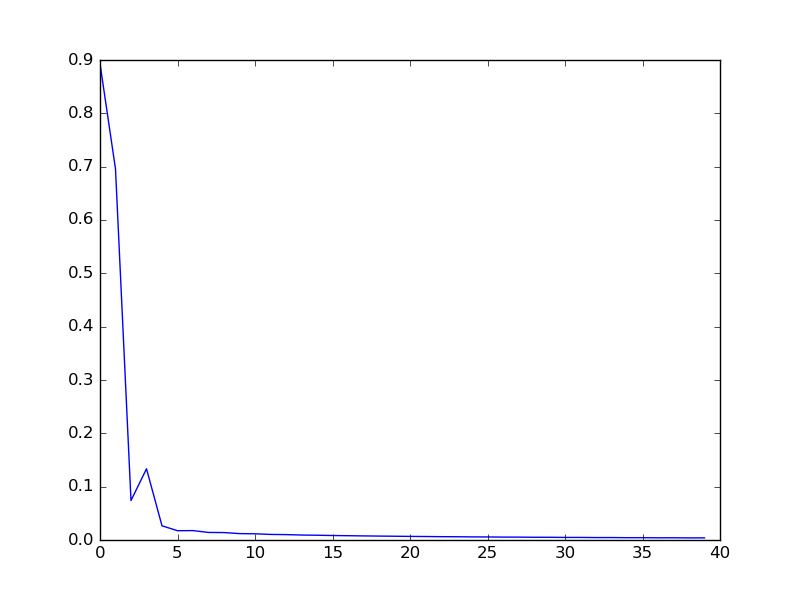
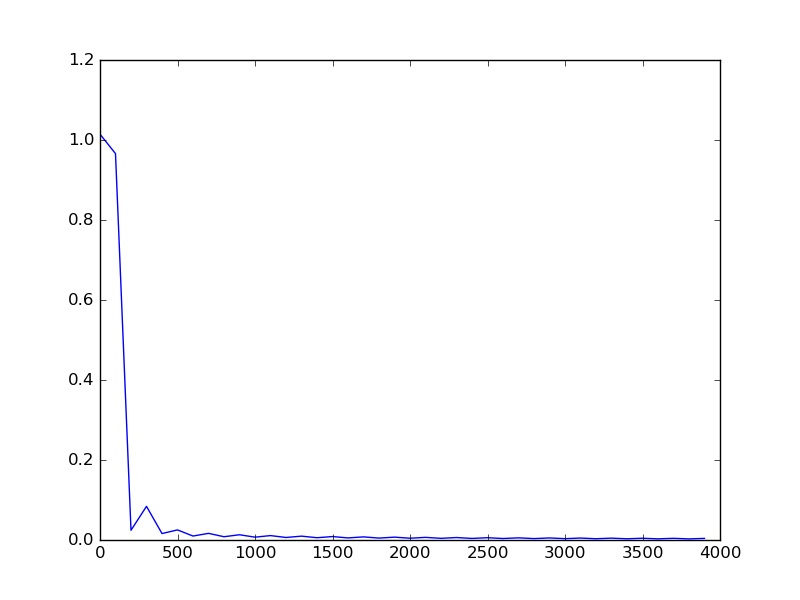
changes

diff --git a/DeepLearning/plot.py b/DeepLearning/plot.py
@@ -1,14 +1,14 @@
-# import matplotlib.pyplot as plt
-# import numpy
-#
-# cost=[1.0144926, 0.96602422, 0.024328001, 0.084135853, 0.016160158, 0.025197307, 0.009908339, 0.01657806, 0.0081786923, 0.013121139, 0.0070881136, 0.011028621, 0.0063030426, 0.0096297041, 0.0056963619, 0.0085926503, 0.005211385, 0.0077778683, 0.0048120469, 0.0071275895, 0.0044746906, 0.006589605, 0.004183189, 0.006135819, 0.0039332267, 0.0057431147, 0.0037121987, 0.0054046381, 0.0035161029, 0.0051041786, 0.0033395544, 0.0048419037, 0.0031820005, 0.0046072733, 0.0030369759, 0.0043934993, 0.0029067376, 0.0042033275, 0.0027854857, 0.0040287729]
-#
-#
-#
-# x = range(0,len(cost),1)
-#
-# plt.plot(x,cost)
-# plt.show()
+import matplotlib.pyplot as plt
+import numpy
+
+cost=[1.0144926, 0.96602422, 0.024328001, 0.084135853, 0.016160158, 0.025197307, 0.009908339, 0.01657806, 0.0081786923, 0.013121139, 0.0070881136, 0.011028621, 0.0063030426, 0.0096297041, 0.0056963619, 0.0085926503, 0.005211385, 0.0077778683, 0.0048120469, 0.0071275895, 0.0044746906, 0.006589605, 0.004183189, 0.006135819, 0.0039332267, 0.0057431147, 0.0037121987, 0.0054046381, 0.0035161029, 0.0051041786, 0.0033395544, 0.0048419037, 0.0031820005, 0.0046072733, 0.0030369759, 0.0043934993, 0.0029067376, 0.0042033275, 0.0027854857, 0.0040287729]
+
+
+
+x = range(0,100*len(cost),100)
+
+plt.plot(x,cost)
+plt.show()
 
 
 # pred=[ 0,0,1,1,0,0,1,0,0,1,0,0,0,0,0,1,0,0,
@@ -95,29 +95,29 @@ actual =[0 ,1 ,1 ,1 ,0 ,1 ,1 ,0 ,1 ,1 ,0 ,1 ,1 ,1 ,0 ,0 ,0 ,1 ,0 ,0 ,0 ,0 ,1 ,1,
 # predicted [1 0 0 1 1 0 0 0 0 0 1 0 0 1 1 0 1 0 1 0 1 1 0 0 0]
 # actual [0 1 0 0 1 1 0 0 1 0 0 0 0 1 1 0 1 0 0 0 0 0 0 0 0]
 
-ind = {"0":"NORMAL","1":"NODULE"}
-import numpy as np
-from math import ceil
-import matplotlib.pyplot as plt
-# plt.style.use('ggplot')
-
-# fig = plt.figure()
-PLOT_ROW_SIZE=3
-PLOT_COLUMNS_SIZE=5
-for i in range(1,16):
-
-    im = plt.imread("final_test_images_calc_nodule_only/"+str(i)+".png")
-
-    plt.subplot(PLOT_ROW_SIZE,PLOT_COLUMNS_SIZE,i)
-    plt.xticks([])
-    plt.yticks([])
-    plt.xlabel("NORMAL : "+str(round(pred_perc[i][0],3))+"| NODULE : "+str(round(pred_perc[i][1],3))+"\n TRUE : "+ ind[str(actual[i])], fontsize=12)
-    plt.imshow(im)
-
-
-
-
-# plt.tick_params(axis='both', which='both', bottom='off', top='off', labelbottom='off', right='off', left='off', labelleft='off')
-# ax.set_xticklabels([])
-# fig.subplots_adjust(bottom=0.08,left = 0.05,right=0.97,top=0.93,wspace = 0.5,hspace = 0.5)
-plt.show()
+# ind = {"0":"NORMAL","1":"NODULE"}
+# import numpy as np
+# from math import ceil
+# import matplotlib.pyplot as plt
+# # plt.style.use('ggplot')
+#
+# # fig = plt.figure()
+# PLOT_ROW_SIZE=3
+# PLOT_COLUMNS_SIZE=5
+# for i in range(1,16):
+#
+#     im = plt.imread("final_test_images_calc_nodule_only/"+str(i)+".png")
+#
+#     plt.subplot(PLOT_ROW_SIZE,PLOT_COLUMNS_SIZE,i)
+#     plt.xticks([])
+#     plt.yticks([])
+#     plt.xlabel("NORMAL : "+str(round(pred_perc[i][0],3))+"| NODULE : "+str(round(pred_perc[i][1],3))+"\n TRUE : "+ ind[str(actual[i])], fontsize=12)
+#     plt.imshow(im)
+#
+#
+#
+#
+# # plt.tick_params(axis='both', which='both', bottom='off', top='off', labelbottom='off', right='off', left='off', labelleft='off')
+# # ax.set_xticklabels([])
+# # fig.subplots_adjust(bottom=0.08,left = 0.05,right=0.97,top=0.93,wspace = 0.5,hspace = 0.5)
+# plt.show()
